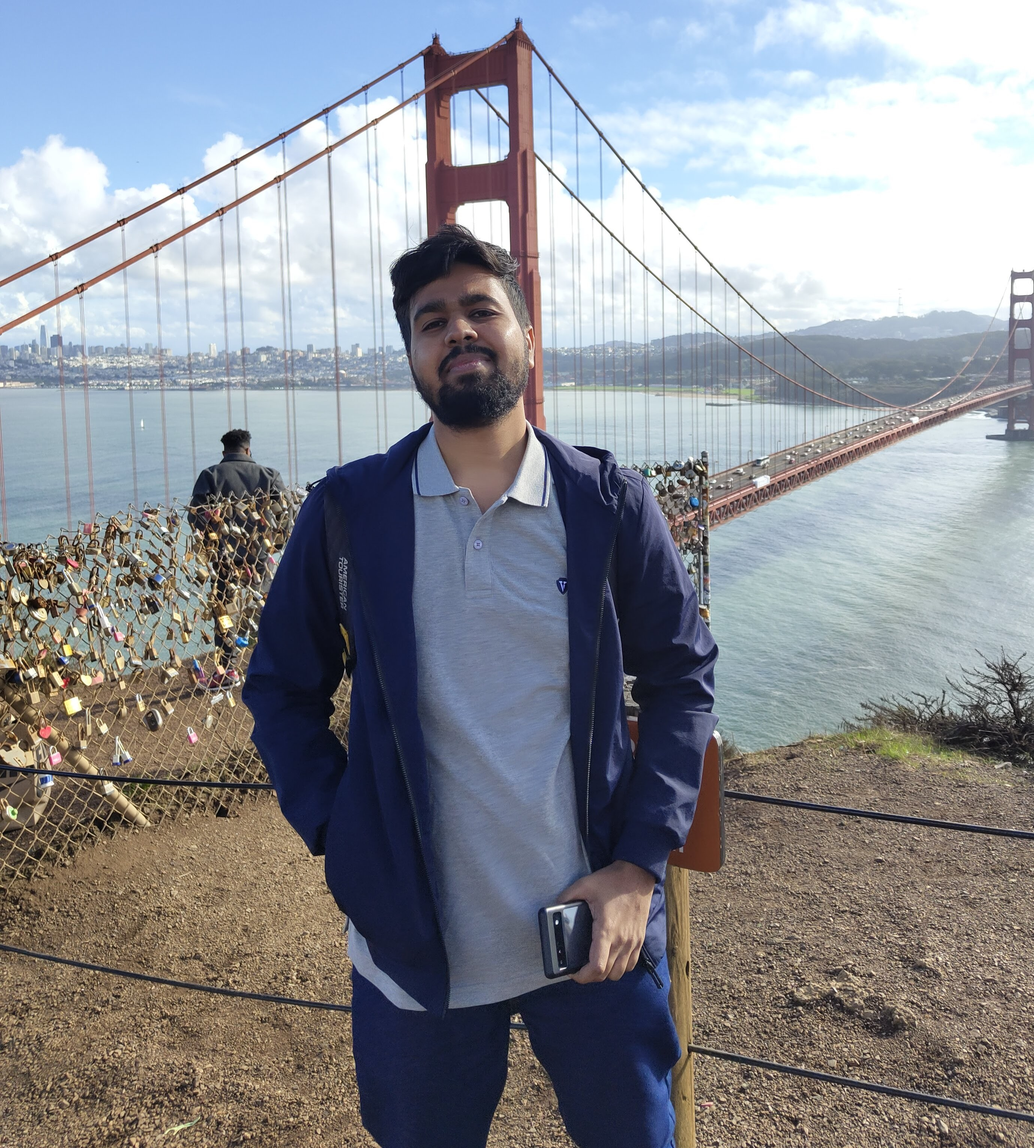
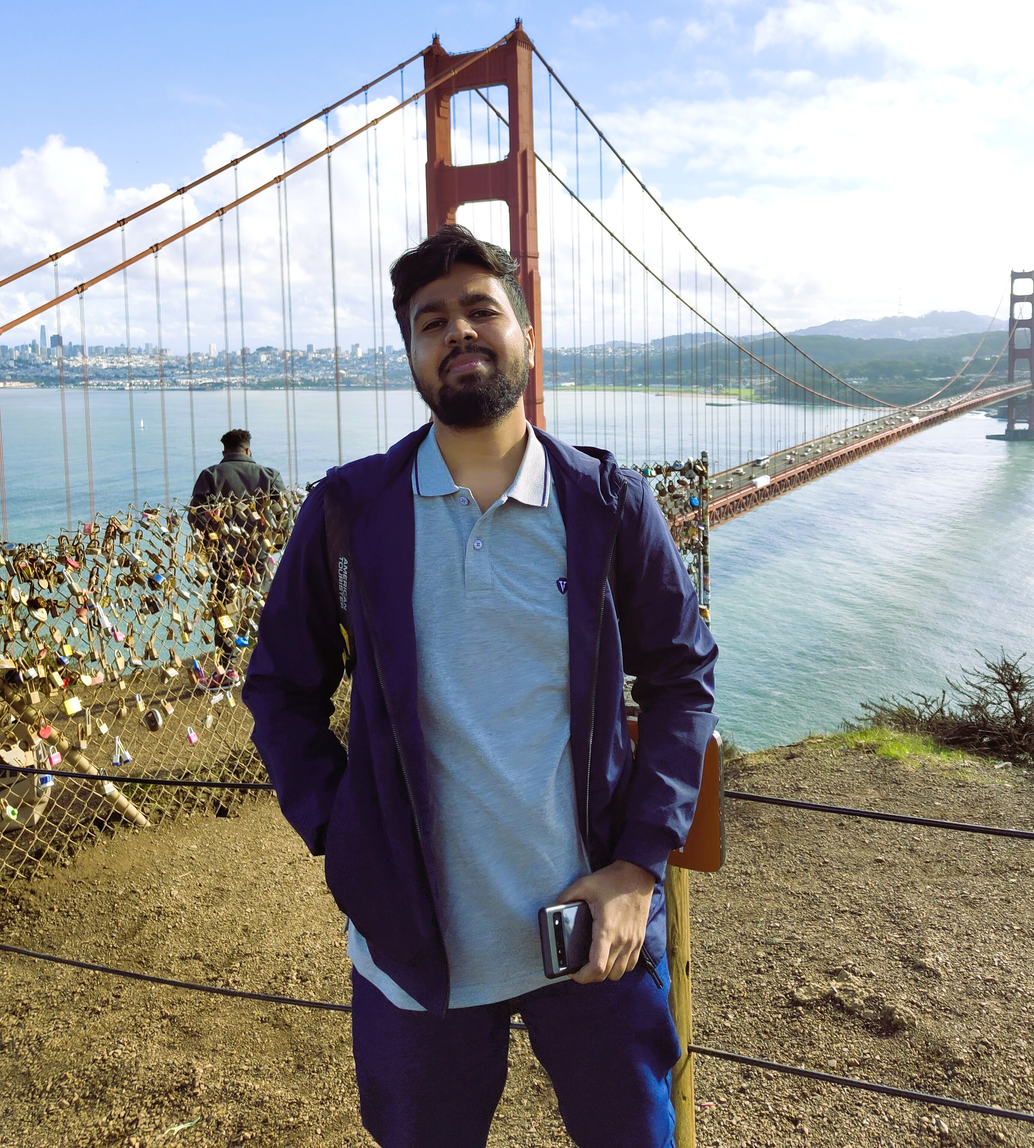
Photo dark uploaded

diff --git a/about.html b/about.html
@@ -74,7 +74,7 @@
       <!-- Right Side: Large Rectangular Image, Contact, and Message Form -->
       <div class="about-right">
         <div class="profile-image-box">
-          <img src="assets/img/photo.jpg" alt="Bharat Surya Chamarthi" class="about-image-rect">
+          <img src="assets/img/photo.jpg" alt="Bharat Surya Chamarthi" class="about-image-rect" id="profile-photo">
         </div>
         <div class="contact-box">
           <h2>Contact Email</h2>
@@ -147,6 +147,17 @@
         }, 50);
         applyDarkModeSetting();
       });
+
+    // Switch profile photo on dark mode
+    function switchProfilePhoto() {
+      const img = document.getElementById('profile-photo');
+      if (!img) return;
+      const isDark = document.body.classList.contains('dark-mode');
+      img.src = isDark ? 'assets/img/photo -dark.jpg' : 'assets/img/photo.jpg';
+    }
+    document.addEventListener('DOMContentLoaded', switchProfilePhoto);
+    const observer = new MutationObserver(switchProfilePhoto);
+    observer.observe(document.body, { attributes: true, attributeFilter: ['class'] });
 
     // Message form submission to save as JSON
     document.addEventListener('DOMContentLoaded', function() {
